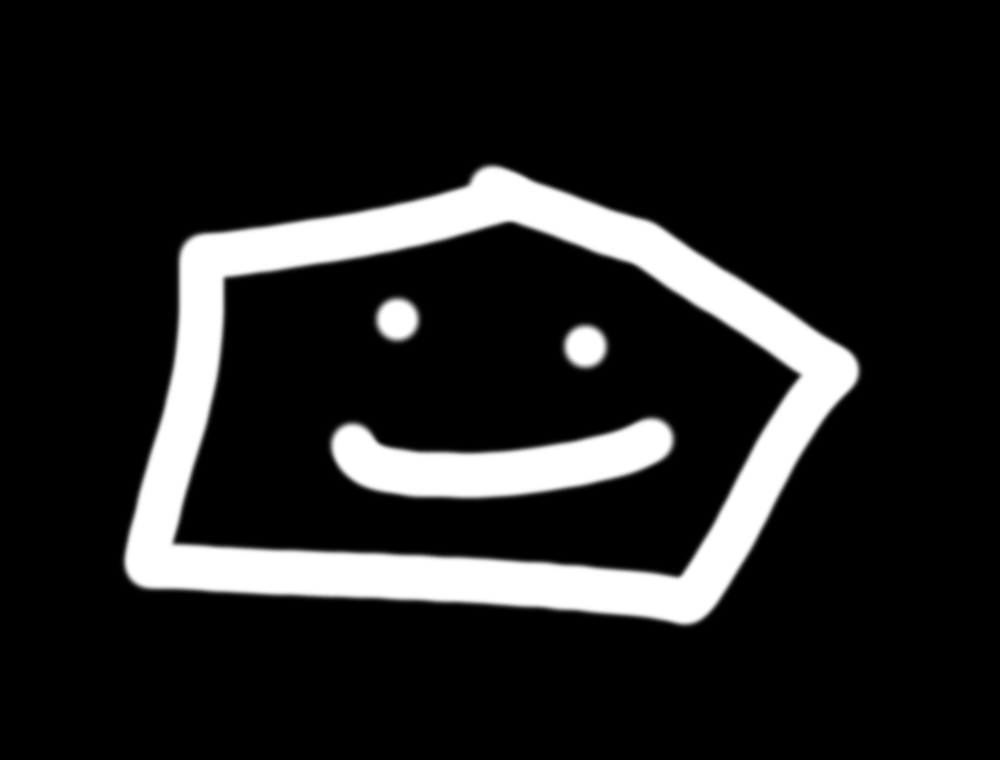
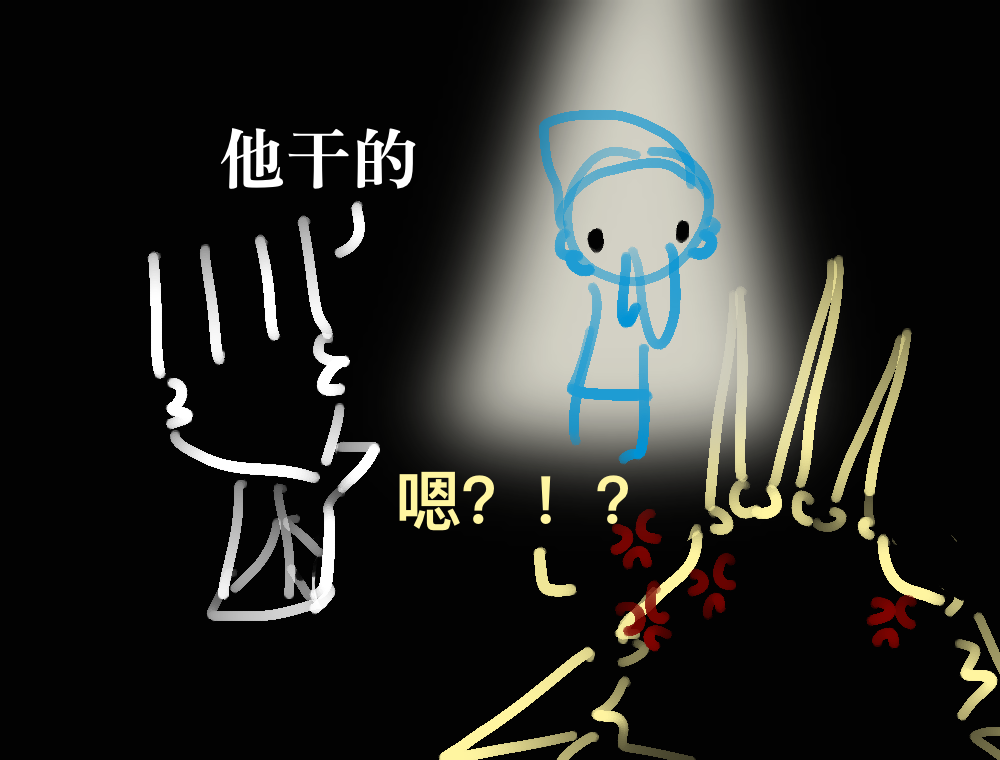
07262114

diff --git a/PaleRegentModV1Code/Cards/AwaitDrawpile.cs b/PaleRegentModV1Code/Cards/AwaitDrawpile.cs
@@ -1,0 +1,86 @@
+using System.Collections.Generic;
+using System.Threading.Tasks;
+using MegaCrit.Sts2.Core.Commands;
+using MegaCrit.Sts2.Core.Entities.Cards;
+using MegaCrit.Sts2.Core.GameActions.Multiplayer;
+using MegaCrit.Sts2.Core.Localization.DynamicVars;
+using MegaCrit.Sts2.Core.ValueProps;
+using System.Linq;
+using MegaCrit.Sts2.Core.CardSelection;
+using MegaCrit.Sts2.Core.Models;
+
+namespace PaleRegentModV1.PaleRegentModV1Code.Cards;
+
+/// <summary>
+/// 技能牌。
+/// 1 灵魂：抽{IfUpgraded:show:2|1}张牌。获得{Block:diff()}点格挡。选择手牌中1张牌放入抽牌堆顶部。
+///
+/// </summary>
+public class AwaitDrawpile() : PaleRegentModV1Card(1,
+    CardType.Skill, CardRarity.Common,
+    TargetType.Self)
+{
+    /// <summary>基础格挡。</summary>
+    private const int BaseBlock = 3;
+    /// <summary>升级后格挡增加量。</summary>
+    private const int UpgradeBlockBonus = 2;
+
+    // 声明"这张牌提供格挡"，游戏会据此显示格挡预览等 UI
+    public override bool GainsBlock => true;
+
+    // 带 Defend 标签：与"对防御牌生效"的效果联动（原版惯例）
+    protected override HashSet<CardTag> CanonicalTags => new() { CardTag.Defend };
+
+    // BlockVar 声明格挡动态变量：卡面描述里的 !B! 会显示此数值（含敏捷等修正）
+    protected override IEnumerable<DynamicVar> CanonicalVars =>
+    [
+        new BlockVar(BaseBlock, ValueProp.Move),
+        new DynamicVar("Draw", BaseDraw)
+    ];
+    
+    /// <summary>基础抽牌数。</summary>
+    private const int BaseDraw = 1;
+    private const int UpgradedDraw = 2;
+    
+    private async Task<CardModel?> SelectOneCardFromHand(
+        PlayerChoiceContext choiceContext)
+    {
+        return (await CardSelectCmd.FromHand(
+            choiceContext,
+            Owner,
+            new CardSelectorPrefs(SelectionScreenPrompt, 1),
+            null,
+            this
+        )).FirstOrDefault();
+    }
+    
+    protected override async Task OnPlay(PlayerChoiceContext choiceContext, CardPlay cardPlay)
+    {
+        await CreatureCmd.GainBlock(
+            Owner.Creature,
+            DynamicVars.Block,
+            cardPlay);
+
+        await CardPileCmd.Draw(
+            choiceContext,
+            DynamicVars["Draw"].IntValue,
+            Owner);
+
+        CardModel? selected = await SelectOneCardFromHand(choiceContext);
+
+        if (selected == null)
+            return;
+
+        // 按你的本地游戏版本补齐 CardPileCmd.Add 的参数。
+        await CardPileCmd.Add(
+            selected,
+            PileType.Draw,
+            CardPilePosition.Top);
+    }
+
+    protected override void OnUpgrade()
+    {
+        DynamicVars.Block.UpgradeValueBy(UpgradeBlockBonus);
+        DynamicVars["Draw"].UpgradeValueBy(UpgradedDraw - BaseDraw);
+    }
+}

diff --git a/PaleRegentModV1Code/Cards/Prescience.cs b/PaleRegentModV1Code/Cards/Prescience.cs
@@ -1,0 +1,76 @@
+using System.Collections.Generic;
+using System.Threading.Tasks;
+using MegaCrit.Sts2.Core.Commands;
+using MegaCrit.Sts2.Core.Entities.Cards;
+using MegaCrit.Sts2.Core.GameActions.Multiplayer;
+using MegaCrit.Sts2.Core.HoverTips;
+using MegaCrit.Sts2.Core.Localization.DynamicVars;
+using MegaCrit.Sts2.Core.ValueProps;
+using PaleRegentModV1.PaleRegentModV1Code.Powers;
+using PaleRegentModV1.PaleRegentModV1Code.Traits;
+using MegaCrit.Sts2.Core.CardSelection;
+using MegaCrit.Sts2.Core.Models;
+
+namespace PaleRegentModV1.PaleRegentModV1Code.Cards;
+
+/// <summary>
+/// 技能牌。
+/// 2 灵魂：预知{IfUpgraded:show:5|3}张牌。选择其中{IfUpgraded:show:2|1}张牌放入手牌。
+///
+/// </summary>
+public class Prescience() : PaleRegentModV1Card(2,
+    CardType.Skill, CardRarity.Uncommon,
+    TargetType.Self)
+{
+    // <summary>手牌聚焦悬停词条（机制表：关键词/生成牌 Hover Card Preview）。</summary>
+    protected override IEnumerable<IHoverTip> ExtraHoverTips =>
+    [ModHoverTips.PrescienceRule
+    ];
+    private const int BasePreviewAmount = 3;
+    private const int PreviewUpgradeBonus = 2;
+
+    private const int BaseTakeAmount = 1;
+    private const int TakeUpgradeBonus = 1;
+
+    protected override IEnumerable<DynamicVar> CanonicalVars =>
+    [
+        new DynamicVar("PreviewAmount", BasePreviewAmount),
+        new DynamicVar("TakeAmount", BaseTakeAmount)
+    ];
+    
+    protected override async Task OnPlay(PlayerChoiceContext choiceContext, CardPlay cardPlay)
+    {
+        int previewAmount =
+            DynamicVars["PreviewAmount"].IntValue;
+
+        int takeAmount =
+            DynamicVars["TakeAmount"].IntValue;
+        
+        await CardPileCmd.Draw(
+            choiceContext,
+            DynamicVars["Draw"].IntValue,
+            Owner);
+
+        IReadOnlyList<CardModel> takenCards =
+            await ScryTraitHelper.PreviewTopAndTake(
+                choiceContext,
+                Owner,
+                previewAmount,
+                takeAmount,
+                new CardSelectorPrefs(
+                    SelectionScreenPrompt,
+                    takeAmount));
+
+        // 后续需要对被选择的牌生效时，可以使用 chosen。
+        // if (chosen != null)
+        // {
+            // 例如：chosen.SetToFreeThisTurn();
+            // }
+    }
+
+    protected override void OnUpgrade()
+    {
+        DynamicVars["PreviewAmount"].UpgradeValueBy(PreviewUpgradeBonus);
+        DynamicVars["TakeAmount"].UpgradeValueBy(TakeUpgradeBonus);
+    }
+}

diff --git a/PaleRegentModV1Code/Cards/NoCostTooGreat.cs b/PaleRegentModV1Code/Cards/NoCostTooGreat.cs
@@ -17,7 +17,7 @@ namespace PaleRegentModV1.PaleRegentModV1Code.Cards;
 /// 【不惜代价】技能牌（机制文档：造物流 "No Cost Too Great"）。
 /// 0 灵魂 Rare 技能：
 /// 生成 1 张【容器】加入手牌；将 1 张【羞愧】加入你的手牌；
-/// 本场战斗每打出一次，此牌费用增加 1；结束你的回合。
+/// 本场战斗每打出一次，此牌费用增加 1.
 /// 升级后：生成【容器+】。
 /// </summary>
 public class NoCostTooGreat() : PaleRegentModV1Card(0,
@@ -49,8 +49,8 @@ public class NoCostTooGreat() : PaleRegentModV1Card(0,
         // 本场战斗每打出一次，费用 +1
         EnergyCost.AddThisCombat(1, false);
 
-        // 结束你的回合
-        PlayerCmd.EndTurn(Owner, false, (Func<Task>)null);
+        // 结束你的回合 :20260726 不再结束回合
+        // PlayerCmd.EndTurn(Owner, false, (Func<Task>)null);
     }
 
     protected override void OnUpgrade()

diff --git a/PaleRegentModV1Code/Traits/ModHoverTips.cs b/PaleRegentModV1Code/Traits/ModHoverTips.cs
@@ -48,7 +48,8 @@ public static class ModHoverTips
 
     /// <summary>【感染】特质规则词条（名词表#8：回合结束留在手牌时变化随机手牌为感染并触发疑虑）。</summary>
     public static IHoverTip InfectionRule => Static("INFECTION_RULE");
-    public static IHoverTip FollyRule => Static("Folly_RULE");
+    public static IHoverTip FollyRule => Static("FOLLY_RULE");
     public static IHoverTip RegretRule => Static("REGRET_RULE");
     public static IHoverTip ShameRule => Static("SHAME_RULE");
+    public static IHoverTip PrescienceRule => Static("PRESCIENCE_RULE");
 }

diff --git a/PaleRegentModV1Code/Cards/Tame.cs b/PaleRegentModV1Code/Cards/Tame.cs
@@ -31,7 +31,8 @@ public class Tame() : PaleRegentModV1Card(2,
         [HoverTipFactory.FromCard<VoidGivenFocus>(IsUpgraded),
          HoverTipFactory.FromCard<VoidGivenForm>(IsUpgraded),
          HoverTipFactory.FromCard<FailedExperiment>(IsUpgraded),
-         HoverTipFactory.FromCard<TheVoidStatus>(false)];
+         //HoverTipFactory.FromCard<TheVoidStatus>(false)
+        ];
 
     public override IEnumerable<CardKeyword> CanonicalKeywords =>
         [CardKeyword.Exhaust];

diff --git a/PaleRegentModV1Code/Cards/SoulGuardReturn.cs b/PaleRegentModV1Code/Cards/SoulGuardReturn.cs
@@ -21,7 +21,7 @@ public class SoulGuardReturn() : PaleRegentModV1Card(1,
     TargetType.Self)
 {
     /// <summary>基础格挡。</summary>
-    private const int BaseBlock = 7;
+    private const int BaseBlock = 3;
     /// <summary>升级后格挡增加量。</summary>
     private const int UpgradeBlockBonus = 3;
 
